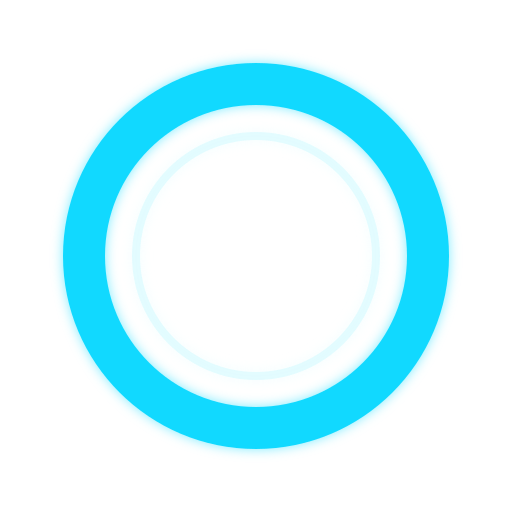
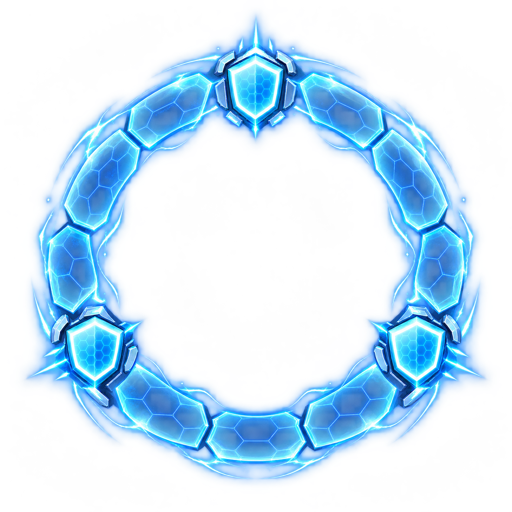
chore(v2): 同步精英名称条与三种词缀光环；重复基线 97 → 93
素材侧本批替换并同步 4 个资源（已用独立实现复核）：
* `UI-ELITE-NAMEPLATE`：**512×102** 横向底板（此前为 512×512 方形占位）；
  在既有 `radius=110` 绘制路径下正好呈现为 **220×44**，不会盖住敌机 ——
  绘制数学无需改动（`_drawSpriteOrNull` 按 `longest` 归一，512 不变）；
* `GFX-ELITE-AURA-ACCEL/SHIELD/BARRAGE`：三者**全部独立**
  （此前互相共用，另与 `UI-FOCUS-RING` 共用）。

实测重复：**41 组 / 93 个 ID**（97 → 93），与素材侧口径一致。
按审计要求**只更新临时冻结值，F-30 保持未关闭**。

**F-32 已由产品负责人更正为「已排除」**：运行时绘制清单证实
`GFX-WARN-CONE` 从未被 EN-SHIELD 绘制，真正的「蓝色大矩阵」是
`UI-ELITE-NAMEPLATE` 的方形占位图 + 精英光环共用图。研发侧无需修改
Shield/Boss 路由。

验证：flutter analyze 零问题；flutter test **748/748**（不含 golden）；
golden **6/6**（名称条/光环只在精英出现时绘制，静态截图无变化）。

diff --git a/test/unit/content/duplicate_asset_test.dart b/test/unit/content/duplicate_asset_test.dart
@@ -67,12 +67,13 @@ void main() {
     // 127 个图形/UI Asset ID 中有 107 个（84%）与别的 ID 共用同一个文件，
     // 只有 20 个是独立美术。因此这里冻结的是**规模**：
     // 素材侧补齐后重复组数会大幅下降，本用例即会失败并提示更新。
-    // 素材侧逐批修复中：107（2.0.6 前）→ 101（敌机独立）→ 97（预警/危险区/激光/突破箭头独立）。
+    // 素材侧逐批修复中：107 → 101（敌机）→ 97（预警/危险区/激光/突破箭头）
+    // → 93（精英名称条与三种词缀光环）。
     // 按审计要求**只更新临时基线，不关闭 F-30 / F-27**。
     // 其余跨语义重复（投射物、武器效果、升级图标、HUD 等）仍待素材侧处理，
     // 产品负责人已明确 F-27 保持 P0 未关闭，因此这里继续冻结剩余规模。
     const knownDuplicateGroups = 42;
-    const knownDuplicateIds = 97;
+    const knownDuplicateIds = 93;
 
     final duplicateIds = shared.expand((g) => g).toSet();
 

diff --git a/Spec/03_素材/Warship_v2.0素材清单与制作规范.md b/Spec/03_素材/Warship_v2.0素材清单与制作规范.md
@@ -96,9 +96,23 @@ SHA-256 互不重复；manifest、图形状态、音频混音、Web 首屏资源
 | `GFX-ENEMY-BREACH-WARN` | 琥珀下箭头与底部边界线 | 仅在 `EnemyBreached` 事件显示于 y=920 边线；不是通用预警或击毁特效。 |
 
 四者的运行时 SHA-256 已互不相同，且不再与任何上述场景资源共用。研发只需继续按现有
-`eventBindings` 路由，不改事件名、数值、路径或素材本体。特别地，若 `EN-SHIELD` 在
-80–150 秒阶段显示 `GFX-WARN-CONE`，则是代码绕过/违背 manifest 的错误：Shield 仅应显示
-`GFX-EN-SHIELD.frontShield` 作为正面防御视觉；研发须修复错误路由，不能修改本素材绑定。
+`eventBindings` 路由，不改事件名、数值、路径或素材本体。后续运行时诊断证明
+`GFX-WARN-CONE` 并未在所述精英场景实际绘制；该场景的矩阵根因见 §1.5。
+
+### 1.5 v2.0.7 精英名称条与词缀光环补丁（2026-10-16，强制）
+
+运行时诊断确认“蓝色大矩阵”实际来自精英名称条和词缀光环的占位图，**不是**
+`GFX-WARN-CONE`。以下四项已替换为独立素材并同步至应用资源目录：
+
+| Asset ID | 正式视觉 | 尺寸/调用合同 |
+| --- | --- | --- |
+| `UI-ELITE-NAMEPLATE` | 深紫黑横向底板，洋红边轨与机械角件；中心留空供运行时文字绘制 | **512×102 px**，现有 `radius=110` 缩放链路输出准确的 **220×44 logical px**；禁止重新导出为 512×512 方形。 |
+| `GFX-ELITE-AURA-ACCEL` | 金色三重箭头速度轨道 | 512×512；仅 `AFFIX-ACCEL`。 |
+| `GFX-ELITE-AURA-SHIELD` | 青色分段六边形护盾环 | 512×512；仅 `AFFIX-SHIELD`。 |
+| `GFX-ELITE-AURA-BARRAGE` | 洋红外射三角弹幕环 | 512×512；仅 `AFFIX-BARRAGE`。 |
+
+三种光环的 SHA-256 必须互不相同，名称条不得与 UI 容器、Boss、武器或回退图共用。
+研发继续使用既有 `EnemySpawned(isElite=true, affixId)` 精确绑定；无需也不得改写素材。
 
 ## 2. 统一视觉、导出与元数据规范
 
@@ -154,7 +168,7 @@ SHA-256 互不重复；manifest、图形状态、音频混音、Web 首屏资源
 | GFX-EN-BOMBER | idle、drop、hit、critical、destroy | 288×288 @2x | 危险区素材独立 |
 | GFX-EN-SHIELD | body、front-shield、hit、critical、destroy | 288×288 @2x | front-shield 独立，120°正面减伤清晰 |
 | GFX-ELITE-AURA-ACCEL/SHIELD/BARRAGE | 3 个可叠加外环/词缀标识 | 256×256 @2x | 65/105/130 秒固定精英使用 |
-| UI-ELITE-NAMEPLATE | 精英头顶名称条底板 | 512×512 @2x；运行时缩放至 220×44 logical px | 文本由 `enemy.*` / `affix.*` key 绘制，禁止烘焙文字 |
+| UI-ELITE-NAMEPLATE | 精英头顶名称条底板 | **512×102 px**；运行时缩放至 220×44 logical px | 文本由 `enemy.*` / `affix.*` key 绘制，禁止烘焙文字 |
 | UI-ELITE-AFFIX-ACCEL/SHIELD/BARRAGE | 加速双箭头 / 护体盾牌 / 弹幕三点图标 | 512×512 @2x；运行时 32×32 logical px | 必须按 `affixId` 与外环一对一匹配 |
 | GFX-BOSS-AEGIS-BODY | 基础装甲、P1/P2/P3 装甲层 | 1024×1024 @2x | Body r=150；阶段切换不改锚点 |
 | GFX-BOSS-AEGIS-WEAKPOINT | hidden、shown、hit | 256×256 @2x | P3 核心暴露 3 s；r=52 |

diff --git a/docs/全量素材语义审计_2026-10-16.md b/docs/全量素材语义审计_2026-10-16.md
@@ -31,6 +31,7 @@ SHA-256 重复分组、状态名与语义交叉检查，并人工抽查角色、
 | 玩家 HP 受击 `GFX-PLAYER-HIT-FLASH` | 已抽查 | 独立闪光效果；必须采用叠加混合渲染 |
 | 玩家护盾受击 `GFX-PLAYER-SHIELD-HIT` | **v2.0.7 已重制** | 独立透明六边形护盾环，中心透明，不得遮住战舰 |
 | 场景 1 战斗预警 | **v2.0.7 已重制** | `GFX-WARN-CONE`、`GFX-HAZARD-BOMBER-ACTIVE`、`GFX-BOSS-LASER`、`GFX-ENEMY-BREACH-WARN` 均为独立透明图形 |
+| 精英名称条及三种词缀光环 | **v2.0.7 已重制** | `UI-ELITE-NAMEPLATE` 为 512×102 横向底板；Accel/Shield/Barrage 三种光环独立 |
 | 五类基础敌机及状态 | v2.0.6 已重制 | 23 个运行时状态 SHA-256 无重复 |
 | 67 个物理音频 Cue | v2.0.6 已重导 | WAV/MP3 各 Cue 无重复，音频混音门禁通过 |
 
@@ -47,7 +48,7 @@ SHA-256 重复分组、状态名与语义交叉检查，并人工抽查角色、
 | 敌弹/预警/暴击特效共用 | `GFX-BOSS-RING-BULLET`、`GFX-ENEMY-BULLET-SHIELD`、`GFX-WARN-CIRCLE`；`GFX-BOSS-FAN-BULLET`、`GFX-ENEMY-BULLET-SNIPER`、`GFX-ENEMY-BULLET-WING`、`GFX-FX-PULSE-CRIT` | 敌弹、Boss 弹幕和可躲避预警被误画成相同物体。 |
 | 警告效果共用（部分已修） | `UI-BOSS-ATTACK-WARN`、`UI-HUD-WARNING-VIGNETTE`、`GFX-HAZARD-BOMBER-WARN` | `GFX-WARN-CONE` 与 `GFX-ENEMY-BREACH-WARN` 已于本补丁重制；其余项目仍会令不同危险范围难以区分。 |
 | 武器/回退/危险区共用（部分已修） | `GFX-FALLBACK-SILHOUETTE`、`GFX-WPN-ARC`、`GFX-WPN-DRONE`、`GFX-WPN-LASER-HEAD`、`GFX-WPN-LASER-IMPACT` | `GFX-HAZARD-BOMBER-ACTIVE` 已于本补丁重制；其余项目仍使回退图进入正常战斗语义或令攻击缺少独立轮廓。 |
-| 三种精英外环共用 | `GFX-ELITE-AURA-ACCEL`、`GFX-ELITE-AURA-SHIELD`、`GFX-ELITE-AURA-BARRAGE` | 精英词缀无法做到颜色以外的第二识别维度。 |
+| 三种精英外环共用 | **已于本补丁修复**：`GFX-ELITE-AURA-ACCEL`、`GFX-ELITE-AURA-SHIELD`、`GFX-ELITE-AURA-BARRAGE` | 三种词缀现以箭头 / 六边形盾片 / 外射弹幕三种形状区分。 |
 | 拾取物共用 | `GFX-PICKUP-ELITE-CORE`、`GFX-PICKUP-SUPPLY-DASH`、`GFX-PICKUP-SUPPLY-HEAL` | 玩家无法在移动中判断奖励类型。 |
 
 ### P1：HUD、操作与页面信息可读性
